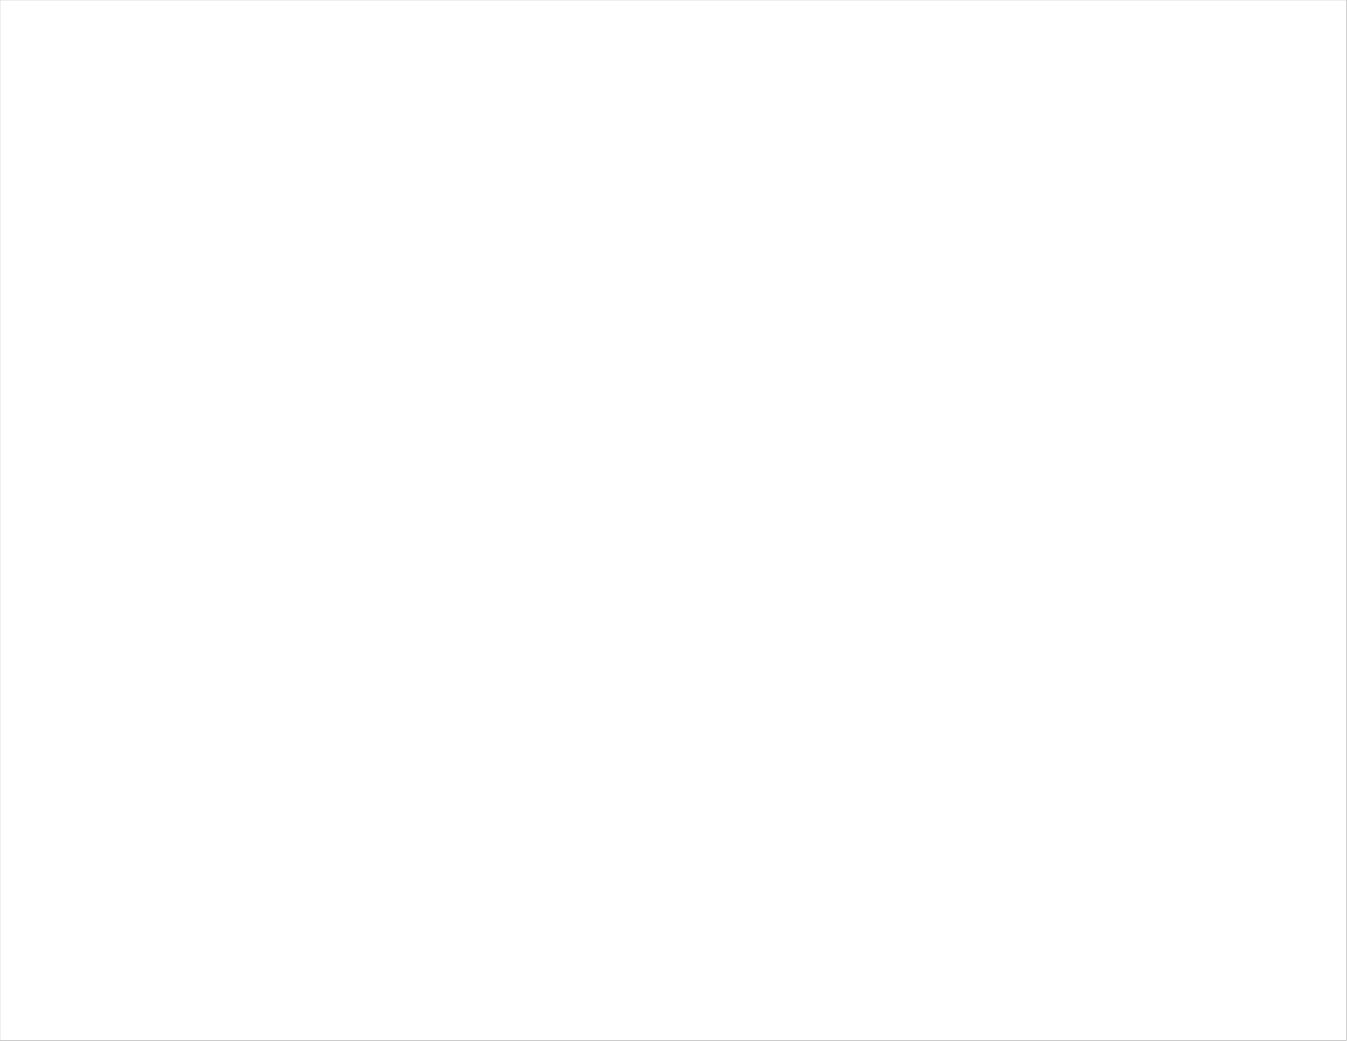
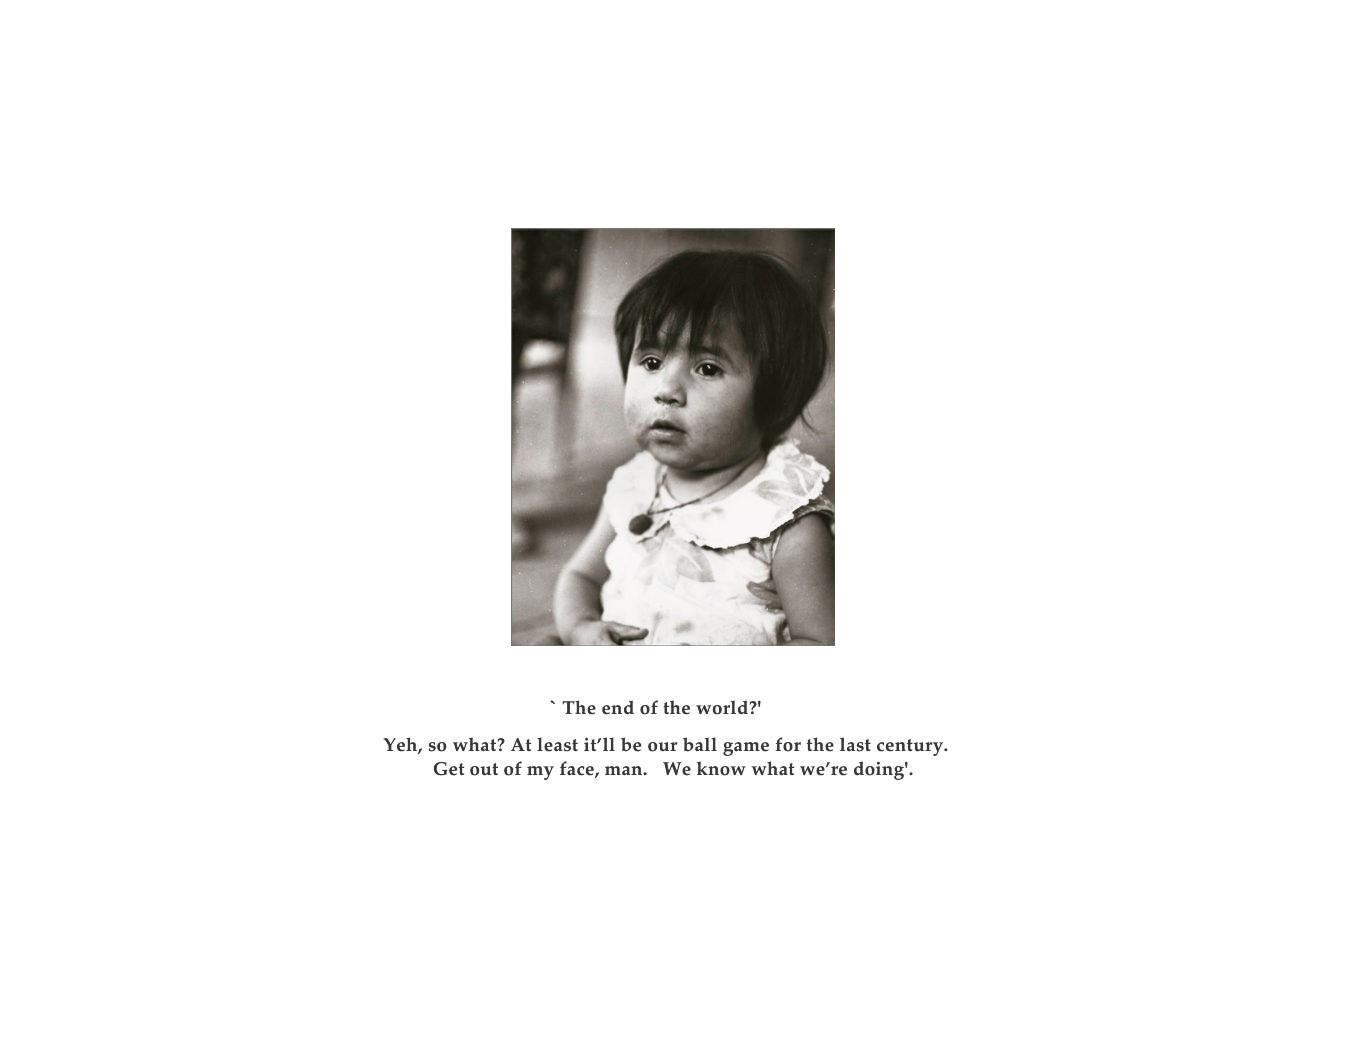
Add files via upload

Changed region(s): [[0.3742, 0.2152, 0.6236, 0.6455], [0.9978, 0.0, 1.0, 1.0], [0.2806, 0.6763, 0.686, 0.7685]]

diff --git a/chapbooks/dorian-america/book.html b/chapbooks/dorian-america/book.html
@@ -17,8 +17,13 @@ BookReader({
   base: '../../assets/book/',
   front: 'cover-front.jpg',               /* closed leather cover, spine left */
   back: 'cover-back.jpg',                 /* closed leather back cover, spine right */
-  page: function(n){ return 'pages/p' + ('00' + n).slice(-3) + '.jpg'; },
-  total: 197,                             /* p1 = original cover art, p197 = closing page */
+  /* first spread = 'First Edition' page | the girl and 'The end of the world?' page, both on paper;
+     the old grey inside cover and its blank pages are skipped, so every later page is shifted by two files */
+  page: function(n){
+    var f = (n === 2) ? 4 : (n === 3) ? 3 : n + 2;
+    return 'pages/p' + ('00' + f).slice(-3) + '.jpg';
+  },
+  total: 195,                             /* last page = blank paper (file p197) */
   leftStart: 2,                           /* first spread = pp. 2-3 */
   homeHref: '../../index.html',
   backHref: '../../books/index.html',

diff --git a/books/index.html b/books/index.html
@@ -50,7 +50,7 @@
     <a class="shelf-book" href="../chapbooks/dorian-america/book.html" aria-label="Open The Picture of Dorian America">
       <span class="bk-cover"><img src="../assets/book/cover-front-thumb.jpg" alt="The Picture of Dorian America &mdash; leather-bound book"></span>
       <span class="bk-title">The Picture of Dorian America</span>
-      <span class="bk-sub">Poems &amp; Photographs<br>Edited by Mark Wotton<br>Curated by Harold Murphree and Mark Wotton</span>
+      <span class="bk-sub">by Bob Randolph, Revolutionary Poet</span>
     </a>
     <a class="shelf-book" href="../chapbooks/at-my-age/book.html" aria-label="Open Unpublished work of Bob Randolph">
       <span class="bk-cover"><img src="../assets/book/at-my-age-thumb.jpg" alt="At my Age I can say whatever I damn well please &mdash; Poet Bob Randolph"></span>
